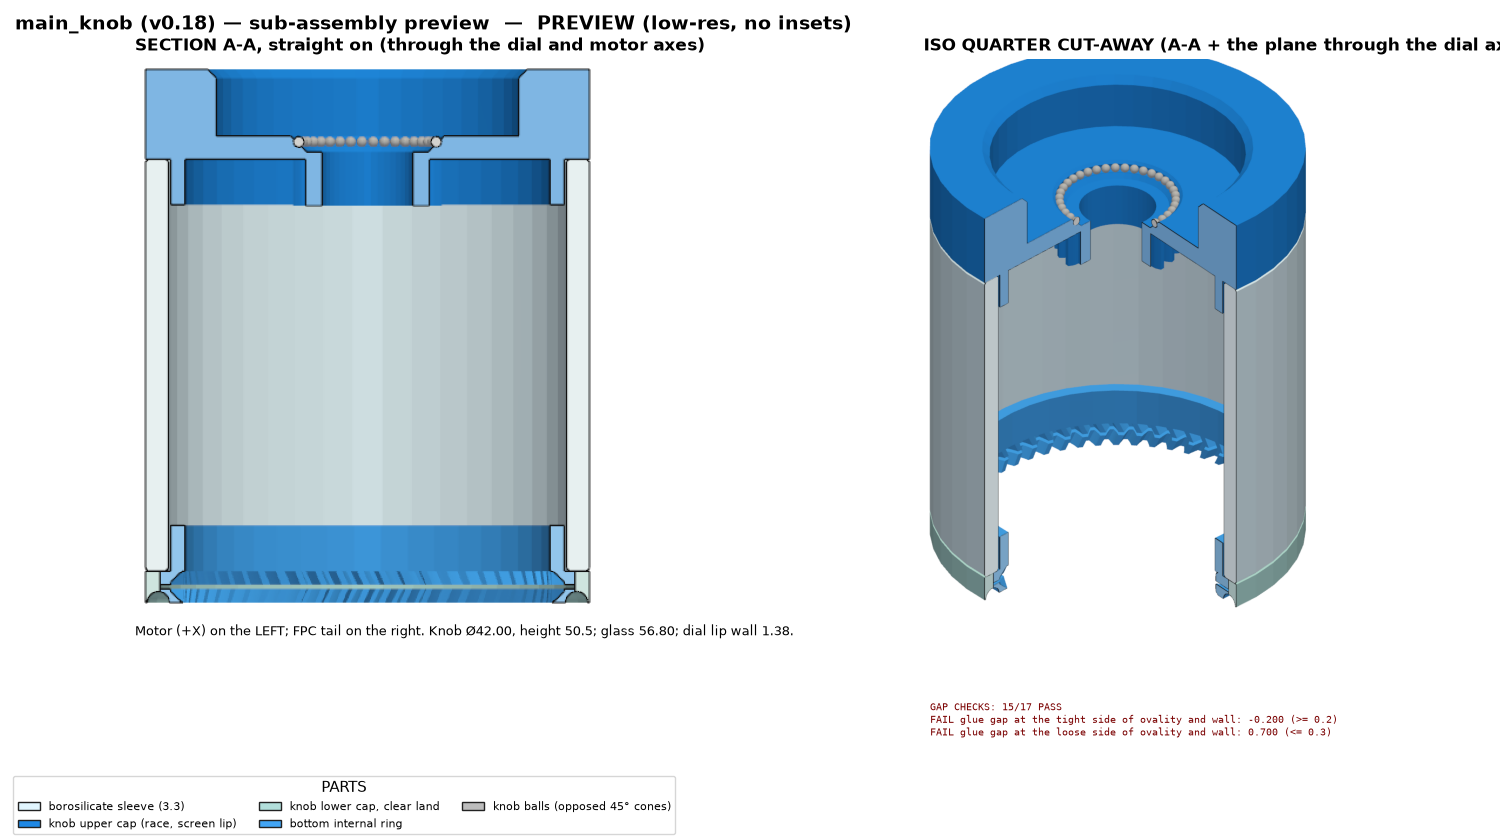
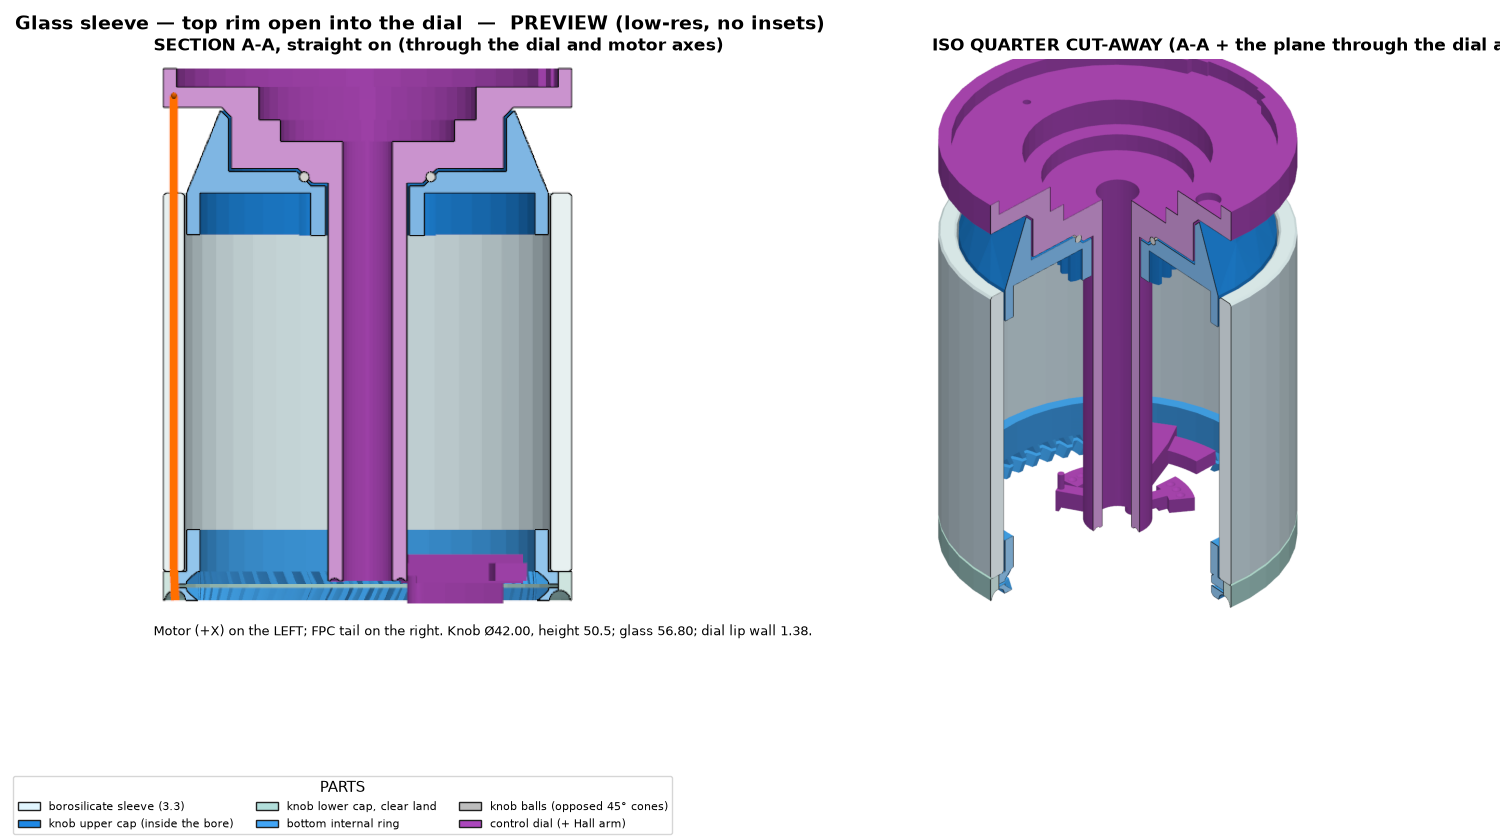
Leave the glass top rim bare so light can enter the dial.
The upper cap stays inside the bore. A check requires every printed
part to miss the glass top face, and the section draws the path up
the wall into the dial.

diff --git a/cad/knob-param/knobparam/assembly/render.py b/cad/knob-param/knobparam/assembly/render.py
@@ -16,7 +16,7 @@ GROUPS = [  # (legend, colour, match)
     ("M1.6 rod + sleeve, nuts, washer", "#5c6bc0", lambda n: n.startswith("rod")),
     ("base cradle", "#8d6e63", lambda n: n == "base cradle"),
     ("borosilicate sleeve (3.3)", "#e1f5fe", lambda n: n.startswith("knob glass")),
-    ("knob upper cap (race, screen lip)", "#1e88e5", lambda n: n.startswith("knob upper-cap")),
+    ("knob upper cap (inside the bore)", "#1e88e5", lambda n: n.startswith("knob upper-cap")),
     ("knob lower cap, clear land", "#b2dfdb", lambda n: n.startswith("knob lower-cap")),
     ("bottom internal ring", "#42a5f5", lambda n: n.startswith("bottom internal ring")),
     ("knob balls (opposed 45° cones)", "#bdbdbd", lambda n: n.startswith("knob balls")),
@@ -162,6 +162,23 @@ def _shot(pl, path, aa=True):
 def _bbox(meshes):
     P = np.vstack([p for m in meshes.values() for (p, _) in m.values()]); return P.min(0), P.max(0)
 
+def _rim_light(D):
+    """Ray up the glass wall and out of the exposed top rim into the dial. Section plane is XZ; y is toward the camera."""
+    if "sleeve_z1" not in D or "ot_r" not in D:
+        return None
+    rm = (D["sleeve_id"] / 2 + D["knob_od"] / 2) / 2
+    y = 0.45
+    z_top = D.get("z_lip0", D["sleeve_z1"] + 6.0)
+    pts = [(D["ot_r"], y, D["ot_z"]), (rm, y, D["sleeve_z0"] + D["sleeve_chamfer"]),
+           (rm, y, D["sleeve_z1"]), (rm, y, z_top + 1.2)]
+    def extra(pl, pv):
+        pairs = []
+        for a, b in zip(pts, pts[1:]):
+            pairs += [a, b]
+        pl.add_lines(np.array(pairs), color="#ff6f00", width=8)
+        pl.add_mesh(pv.Sphere(radius=0.35, center=pts[-1]), color="#ff6f00")
+    return extra
+
 def ortho(meshes, centre, cam_dir, up, w_mm, h_mm, ppm, path, extra=None, lw=1.4, edges=True, aa=True):
     pv = _pv(); W, H = max(int(w_mm * ppm), 50), max(int(h_mm * ppm), 50)
     pl = pv.Plotter(off_screen=True, window_size=(W, H)); pl.set_background("white")
@@ -201,7 +218,7 @@ def render(D, parts, keys, out_png, preview=False, tmp=TMP, clash_lines=(), gap_
     lo, hi = _bbox(MA)
     t = time.time()
     rawA = ortho(MA, ((lo[0] + hi[0]) / 2, 0, (lo[2] + hi[2]) / 2), (0, -1, 0) if opposite else (0, 1, 0), (0, 0, 1), hi[0] - lo[0] + 2, hi[2] - lo[2] + 2,
-                 9 if preview else (40 if clean else 30), f"{tmp}/aa.png", edges=not preview, aa=not preview)
+                 9 if preview else (40 if clean else 30), f"{tmp}/aa.png", extra=_rim_light(D) if preview else None, edges=not preview, aa=not preview)
     tm["A-A render"] = time.time() - t
     fang = float(D.get("fm_ang", 90.0)) % 360.0
     a0, a1 = (0.0, fang) if fang <= 180.0 else (fang, 360.0)

diff --git a/cad/knob-param/knobparam/main_knob/parts/knob.py b/cad/knob-param/knobparam/main_knob/parts/knob.py
@@ -9,7 +9,7 @@ def profile(D):
     """Upper cap only. The see-through wall is the glass sleeve; this cap plugs the top of the bore."""
     o = D["knob_run"] * math.sqrt(2)
     rh, rD, rb = D["d_hg_root"] / 2, D["kb_rt"] - 0.06, D["r_bore_hi"]
-    ro, sp, spi = D["cap_r"], D["sleeve_spigot_r"], D["sleeve_lip_r"]
+    sp, spi = D["sleeve_spigot_r"], D["sleeve_lip_r"]
     z_ins = D["h_band1"] - D["sleeve_insert"]
     rh_d, g, rw, f, run = D["dial_hub_od"] / 2, D["gusset"], D["r_web"], D["lip_fillet"], D["knob_run"]
     zg = D["z_web0"] - g
@@ -20,14 +20,13 @@ def profile(D):
     z_l = zl - o + (r_s - rw)
     r_l = rw + f + o - (D["z_lip0"] - D["z_knob_top"])
     z0, zt = D["knob_hub_z0"], D["knob_hub_top"]
-    plug = [(rh, D["h_band1"]), (spi, D["h_band1"]), (spi, z_ins), (sp, z_ins), (sp, D["h_band1"]),
-            (ro, D["h_band1"]), (ro, D["z_knob_top"])]
+    # The plug stops on the bore. Nothing printed lies on the glass top face, so the rim stays open into the dial.
+    plug = [(rh, D["h_band1"]), (spi, D["h_band1"]), (spi, z_ins), (sp, z_ins), (sp, D["h_band1"])]
+    lip = [(min(r, sp), z) for r, z in ((r_l, D["z_knob_top"]), (r_s, z_l), (r_s, D["z_under_web"]), (r_w, D["z_under_web"]))]
     if D["kb_race"] == "chamfer":   # v0.15c: plain bore up to the 45° top chamfer (the ball track face)
         rk = D["r_knob_bore"]   # v0.15d: hub filled in to the dial tube; flat top 0.3 under the dial hub, then the 45° chamfer
-        return [(rk, z0), (rh, z0)] + plug + [(r_l, D["z_knob_top"]), (r_s, z_l), (r_s, D["z_under_web"]),
-                (r_w, D["z_under_web"]), (D["r_chamfer0"], zt), (rk, zt)]
-    return [(rD, z0), (rh, z0)] + plug + [(r_l, D["z_knob_top"]), (r_s, z_l), (r_s, D["z_under_web"]),
-            (r_w, D["z_under_web"]), (rb, z_b), (rb, zt), (rD, zt)]
+        return [(rk, z0), (rh, z0)] + plug + lip + [(D["r_chamfer0"], zt), (rk, zt)]
+    return [(rD, z0), (rh, z0)] + plug + lip + [(rb, z_b), (rb, zt), (rD, zt)]
 
 def glass_sleeve(D):
     """Bought borosilicate 3.3 tube. Ends chamfered for the fire polish. Caps locate on the bore, not on this OD."""

diff --git a/cad/knob-param/knobparam/assembly/checks.py b/cad/knob-param/knobparam/assembly/checks.py
@@ -179,6 +179,17 @@ def cross(D, parts):
     row("spacer gap stays positive at the small end", D["ot_gap_min"], D["ot_play"])
     row("light path between a load ball and a spacer", D["ot_light_gap"], D["ot_play"],
         f"axial window beside a {D['ot_spacer_max']:g} spacer {D['ot_track_clear_max']:.3f}")
+    # The glass top end face stays bare so the wall can shine up into the dial. A wafer of that annulus must miss every printed part.
+    zi, ch = D["sleeve_z1"], D["sleeve_chamfer"]
+    ri, ro = D["sleeve_id"] / 2 + ch, D["knob_od"] / 2 - ch
+    rim = cyl(ro, zi, 0.2) - cyl(ri, zi - 0.05, 0.3)
+    rb = rim.bounding_box()
+    def _hits(bb):
+        return not (bb.max.X < rb.min.X or bb.min.X > rb.max.X or bb.max.Y < rb.min.Y or bb.min.Y > rb.max.Y or bb.max.Z < rb.min.Z or bb.min.Z > rb.max.Z)
+    near = [(n, s) for n, s in parts.items() if not n.startswith("knob glass") and _hits(s.bounding_box())]
+    rim_d, rim_who = min(((s.distance_to(rim), n) for n, s in near), default=(1e9, ""))
+    row("printed parts clear the glass top rim", rim_d, ch,
+        f"nearest {rim_who}; end face r {ri:.2f}–{ro:.2f} at z {zi:.2f} stays open into the dial")
     # ---- v0.16 relative knob-vs-dial angle: diametric ring magnet in the knob under the dial TMAG5273 ----
     if D["rel_sensor"]:   # v0.16b [Ed]: removed by default
         B = ring_field(D)

diff --git a/docs/design-notes.md b/docs/design-notes.md
@@ -10,7 +10,7 @@ Renders: `cad/assemblies/knob-stack-v0.18/` (preview, clean section + iso, plan 
 
 The see-through band of the main knob is a bought borosilicate 3.3 tube, not printed PETG. `knob_od` is the measured sleeve OD, nominal **42.0** (the screen still needs at least Ø41.641). Nominal wall **2.15** mm, inside the bought **2.0–2.3** band, so the nominal bore is **Ø37.70** and the thick-wall bore is **Ø37.40**. The cut length is the visible band, **38.95 mm** (z 5.05 to 44.00), not the 20 mm starting guess. Ends are chamfered 0.26 mm for the fire polish.
 
-Printed caps glue into that bore on one datum, spigot Ø37.20, radial glue **0.25** mm (the 0.20–0.30 band). The lower cap carries the 54T ring and the bottom thrust race; a clear land outside a 1 mm nylon hoop is the light path up into the glass (0.15 mm of clear entry at the race). The upper cap carries the 45° race and the screen lip. Both plugs enter 4.30 mm. The land under the groove stays **1.00 mm**.
+Printed caps glue into that bore on one datum, spigot Ø37.20, radial glue **0.25** mm (the 0.20–0.30 band). The lower cap carries the 54T ring and the bottom thrust race; a clear land outside a 1 mm nylon hoop is the light path up into the glass (0.15 mm of clear entry at the race). The upper cap stays inside the bore: it carries the 45° race and does not cover the glass top face. That rim stays bare so the light leaves the wall and enters the dial above it. Both plugs enter 4.30 mm. The land under the groove stays **1.00 mm**.
 
 The tube has to absorb OD ±0.6, wall ±0.2 and 0.5 mm ovality. Stacked, the bore can be **Ø36.20**. That still clears the ring tips (Ø34.79, 0.71 mm radially, against a Ø36.50 skirt on the old printed knob) and the cans inside the sleeve (outermost r 16.75). It does not keep the glue line inside 0.20–0.30 all the way around: the tight side goes to −0.20 mm and the loose side to 0.70 mm. The caps are sized to the measured bore, so those two rows fail on purpose. A round cap flush with the measured OD also stands 0.25 mm proud of the oval minor axis, and that minor axis (Ø41.50) is 0.14 mm under the screen minimum.
 

diff --git a/cad/knob-param/AGENTS.md b/cad/knob-param/AGENTS.md
@@ -122,11 +122,11 @@ $PY cad/knob-param/build.py --full --render  # real main-PCB STEP instead of the
 
 ### Checks
 
-* **Local** (`<sub>/checks.py`): main_knob 17, control_dial 17, base_drive 14, under_pcb 2, electronics 2, plus 47 cross
-  rows (`assembly`) = **99 total**. These counts come from `cad/assemblies/knob-stack-v0.18/check.json` (`rows[].owner`);
+* **Local** (`<sub>/checks.py`): main_knob 17, control_dial 17, base_drive 14, under_pcb 2, electronics 2, plus 48 cross
+  rows (`assembly`) = **100 total**. These counts come from `cad/assemblies/knob-stack-v0.18/check.json` (`rows[].owner`);
   re-count from that file whenever checks are added or removed, rather than editing numbers by hand.
 * **Cross** (`assembly/checks.py`) + all-pairs clashes; `KNOWN` lists accepted clashes (none in v0.18).
-* **v0.18 glass sleeve: 96/99 gap checks PASS, 5 clashes** on the proxy. The two glue rows fail because 0.5 mm ovality and ±0.2 mm wall do not fit a 0.20–0.30 mm glue band; the Hall spoke is 0.295 mm against a 0.3 mm target. v0.17 was 62/62. v0.16b was 54/54.
+* **v0.18 glass sleeve: 97/100 gap checks PASS, 5 clashes** on the proxy. The two glue rows fail because 0.5 mm ovality and ±0.2 mm wall do not fit a 0.20–0.30 mm glue band; the Hall spoke is 0.295 mm against a 0.3 mm target. The glass top rim is clear (nearest printed part 0.51 mm). v0.17 was 62/62. v0.16b was 54/54.
   The old PCB / motor proxy clash (4.24 mm³) is gone: the proxy reads the M1 Ø3.2 relief from `pcb_proxy.json`.
 * History: v0.16 had 41/42 (dial lip wall far side 0.36 < 0.4, fixed by the closed 0.8 lip); v0.15d also failed
   "geared feel motor depth 25.8 > 25" (removed in v0.16: the 716 is no longer under the board).
